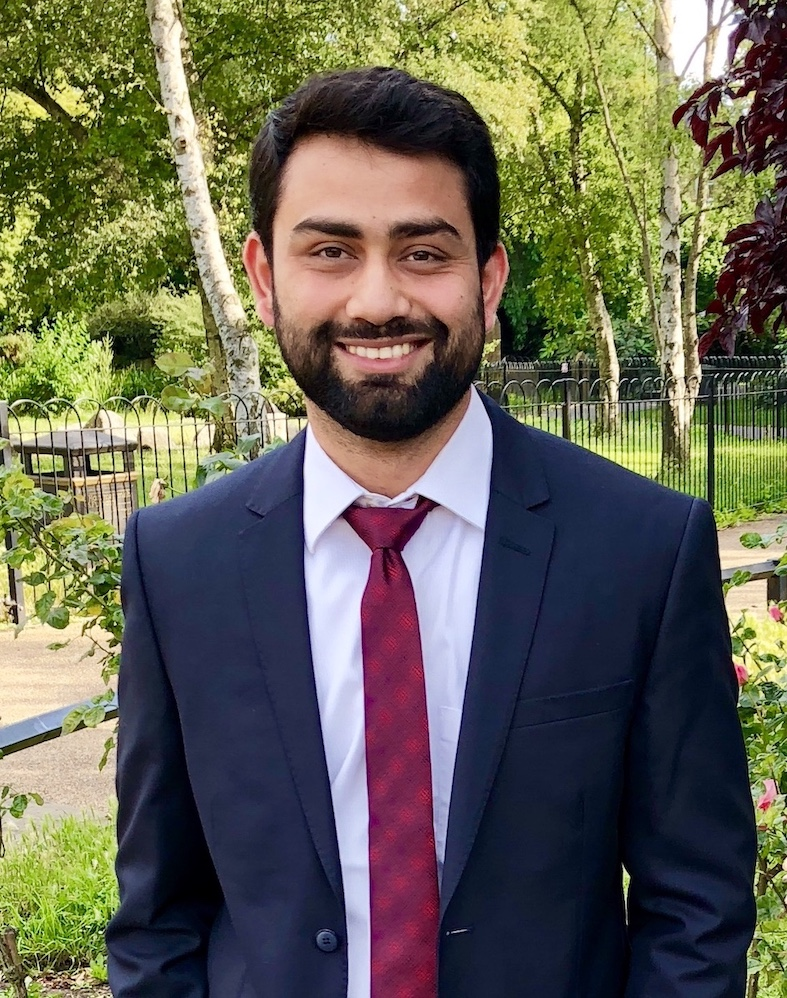
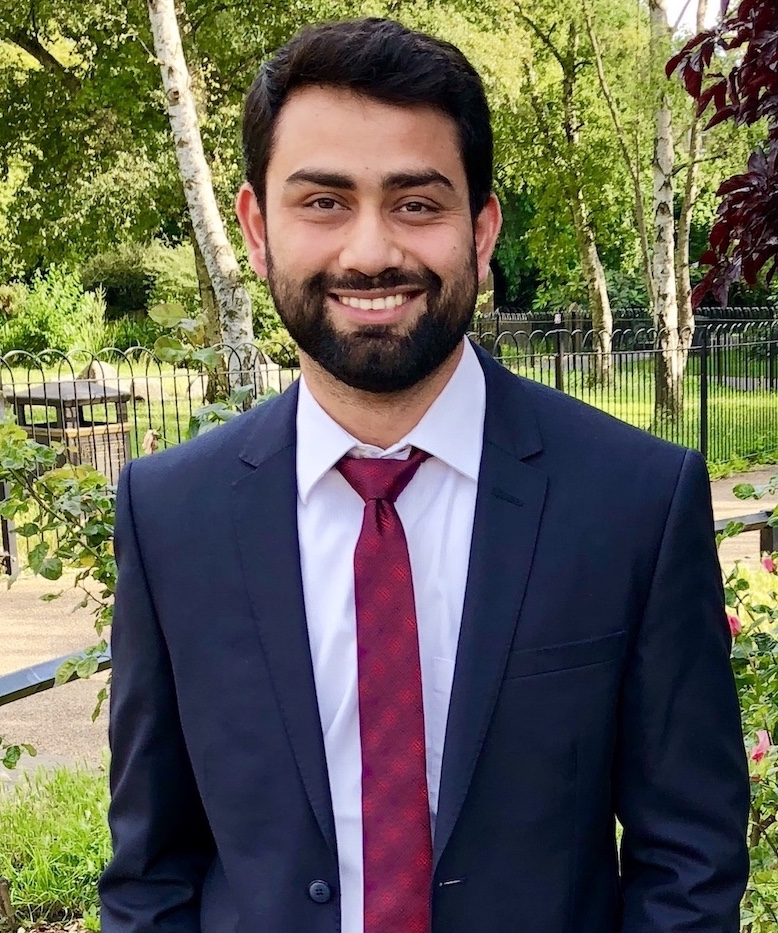
changes

diff --git a/index.html b/index.html
@@ -3,7 +3,7 @@ layout: default
 ---
 
 		<div class="blurb">
-		<img src="/image/IMG_self.jpeg" alt="Self" hspace=10 width=230 height=300 align="right">
+		<img src="/image/IMG_self.jpeg" alt="Self" hspace=10 width=230 height=280 align="right">
 		<p>I am a PhD student in economics at LSE with my advisors being Tim Besley
 			and Robin Burgess. My research interests span
 			development economics, public economics, and political economy.</p>
